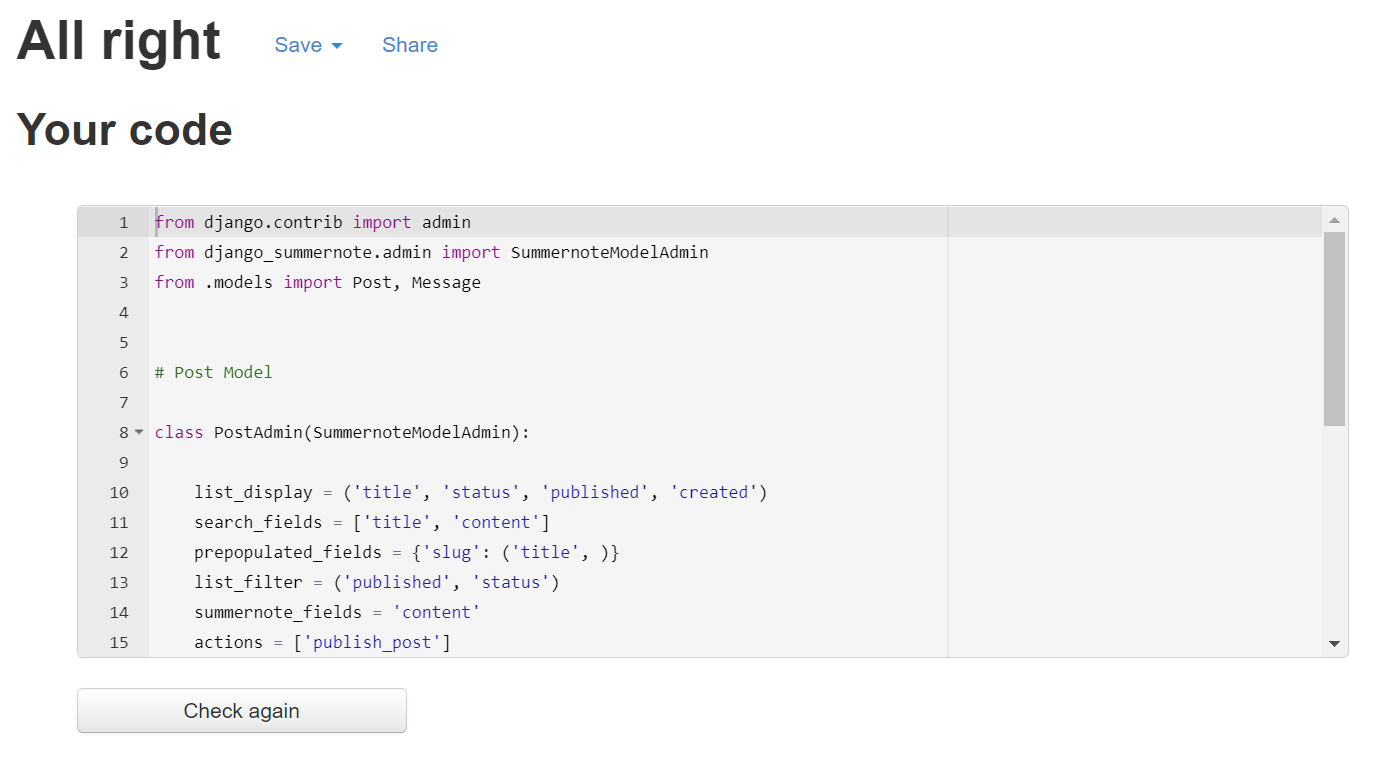
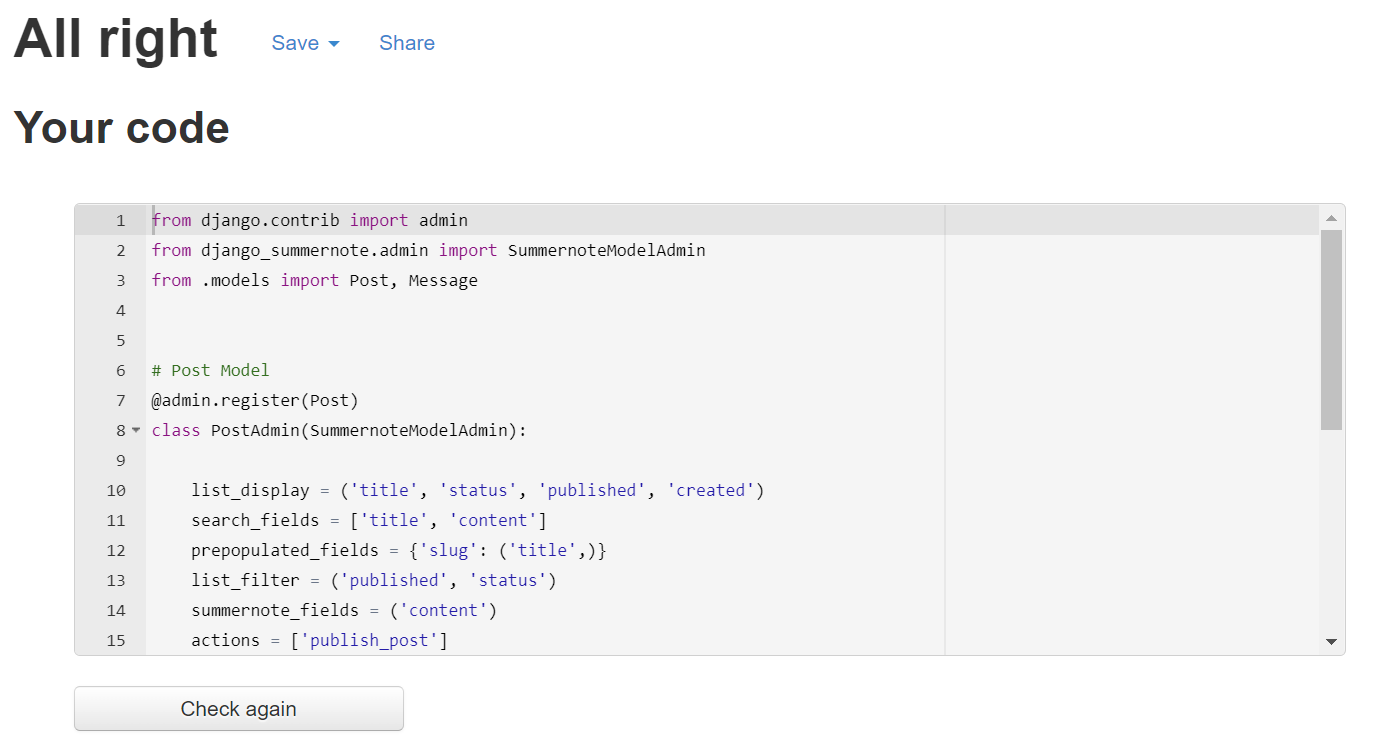
Finished project.

diff --git a/templates/account/signup.html b/templates/account/signup.html
@@ -14,9 +14,9 @@
         <div class="card-body message-body">
           <h3>{% trans "Sign Up" %}</h3>
 
-          <p>{% blocktrans %}Already have an account? Then please <a href="{{ login_url }}">sign in</a>.{% endblocktrans %}</p>
+          <p>{% blocktrans %}Already have an account? Then please <a class="text-dark" href="{{ login_url }}">sign in</a>.{% endblocktrans %}</p>
           
-          <form class="signup text-dark" id="signup_form" method="post" action="{% url 'account_signup' %}">
+          <form class="signup" id="signup_form" method="post" action="{% url 'account_signup' %}">
             {% csrf_token %}
             {{ form.as_p }}
             {% if redirect_field_value %}

diff --git a/templates/message_delete.html b/templates/message_delete.html
@@ -6,7 +6,7 @@
 
 <div class="contrainer-fluid">
   <div class="row update-message">
-    <div class="col-4 offset-4">
+    <div class="col-5  offset-1">
       <div class="card mb-3 message-body">
         <div class="card-body message-body">
           <h6 class="card-title">Hello {{ user.username }}</h6>

diff --git a/blog/admin.py b/blog/admin.py
@@ -4,14 +4,14 @@ from .models import Post, Message
 
 
 # Post Model
-
+@admin.register(Post)
 class PostAdmin(SummernoteModelAdmin):
 
     list_display = ('title', 'status', 'published', 'created')
     search_fields = ['title', 'content']
-    prepopulated_fields = {'slug': ('title', )}
+    prepopulated_fields = {'slug': ('title',)}
     list_filter = ('published', 'status')
-    summernote_fields = 'content'
+    summernote_fields = ('content')
     actions = ['publish_post']
 
     def publish_post(self, request, queryset):
@@ -19,9 +19,8 @@ class PostAdmin(SummernoteModelAdmin):
 
 
 # Message Model
-
+@admin.register(Message)
 class MessageAdmin(admin.ModelAdmin):
-
     list_display = ('post', 'author', 'body', 'received', 'accepted')
     search_fields = ('post', 'author', 'body')
     actions = ['accept_comments']

diff --git a/README.md b/README.md
@@ -1,5 +1,8 @@
 # Fake or Fact
-Deployed app - [fakefact2022](https://fakefact2022.herokuapp.com/)
+## Deployed app - [fakefact2022](https://fakefact2022.herokuapp.com/)
+
+## Responsive screenshot
+![responsive](readme_images/responsive.PNG)
 
 ## Project Description
 Fake | Fact is a blog web applcaition where users are presented with vaiours facts and myths. The user can select wether they think it is fake or fact. Once chosen they are presented with the full post details. If logged in the users can also create and view messages left by other users. 
@@ -25,8 +28,11 @@ Fake | Fact is a blog web applcaition where users are presented with vaiours fac
 -   Post title cards with Fake and Fact buttons - [Bootrap Cards](https://getbootstrap.com/docs/5.2/components/card/)
 -   Pagination buttons
 
+#### Homepage Wireframe
+![wireframe_homepage](readme_images/wireframe_homepage.PNG)
+
 #### Hompage Screenshot
-![homepage_screenshot](readme_images/homepage.png)
+![homepage](readme_images/homepage.png)
 
 ### Post Detail
 -   Post content [Bootrap Cards](https://getbootstrap.com/docs/5.2/components/card/)
@@ -34,12 +40,38 @@ Fake | Fact is a blog web applcaition where users are presented with vaiours fac
 -   Users own comments
 -   MessageForm [Bootrap Card](https://getbootstrap.com/docs/5.2/components/card/)
 
-#### Post Detail Screenshot
-_Add Screenshot_
+#### Post Detail Wireframe
+![wireframe_post_detail](readme_images/wireframe_post_detail.PNG)
 
-### Account screen
--   Sign up, sign in, sigh out screens
-_Add Screenshots_
+#### Post Detail (Signed out) Screenshot
+![pose_detail_signed_out](readme_images/post_detail_signed_out.PNG)
+
+#### Post Detail (Signed in) Screenshot
+![pose_detail_signed_out](readme_images/post_detail_signed_in.PNG)
+
+### Account screens
+-   Extends base.html
+-   Each screen contains a [Bootrap Card](https://getbootstrap.com/docs/5.2/components/card/) for the form.
+
+#### Sign up Screenshot
+![sign_up](readme_images/sign_up.PNG)
+
+#### Sign in Screenshot
+![sign_in](readme_images/sign_in.PNG)
+
+#### Sign out Screenshot
+![sign_out](readme_images/sign_out.png)
+
+### Update Message
+-   Extends base.html
+-   Contains a [Bootrap Card](https://getbootstrap.com/docs/5.2/components/card/) for the form.
+-   Pre-populated form body with existing message
+
+#### Update Message Screenshot
+![update_message](readme_images/update_message.PNG)
+
+#### Delete Message Screenshot
+![delete_message](readme_images/delete_message.PNG)
 
 ## Testing
 
